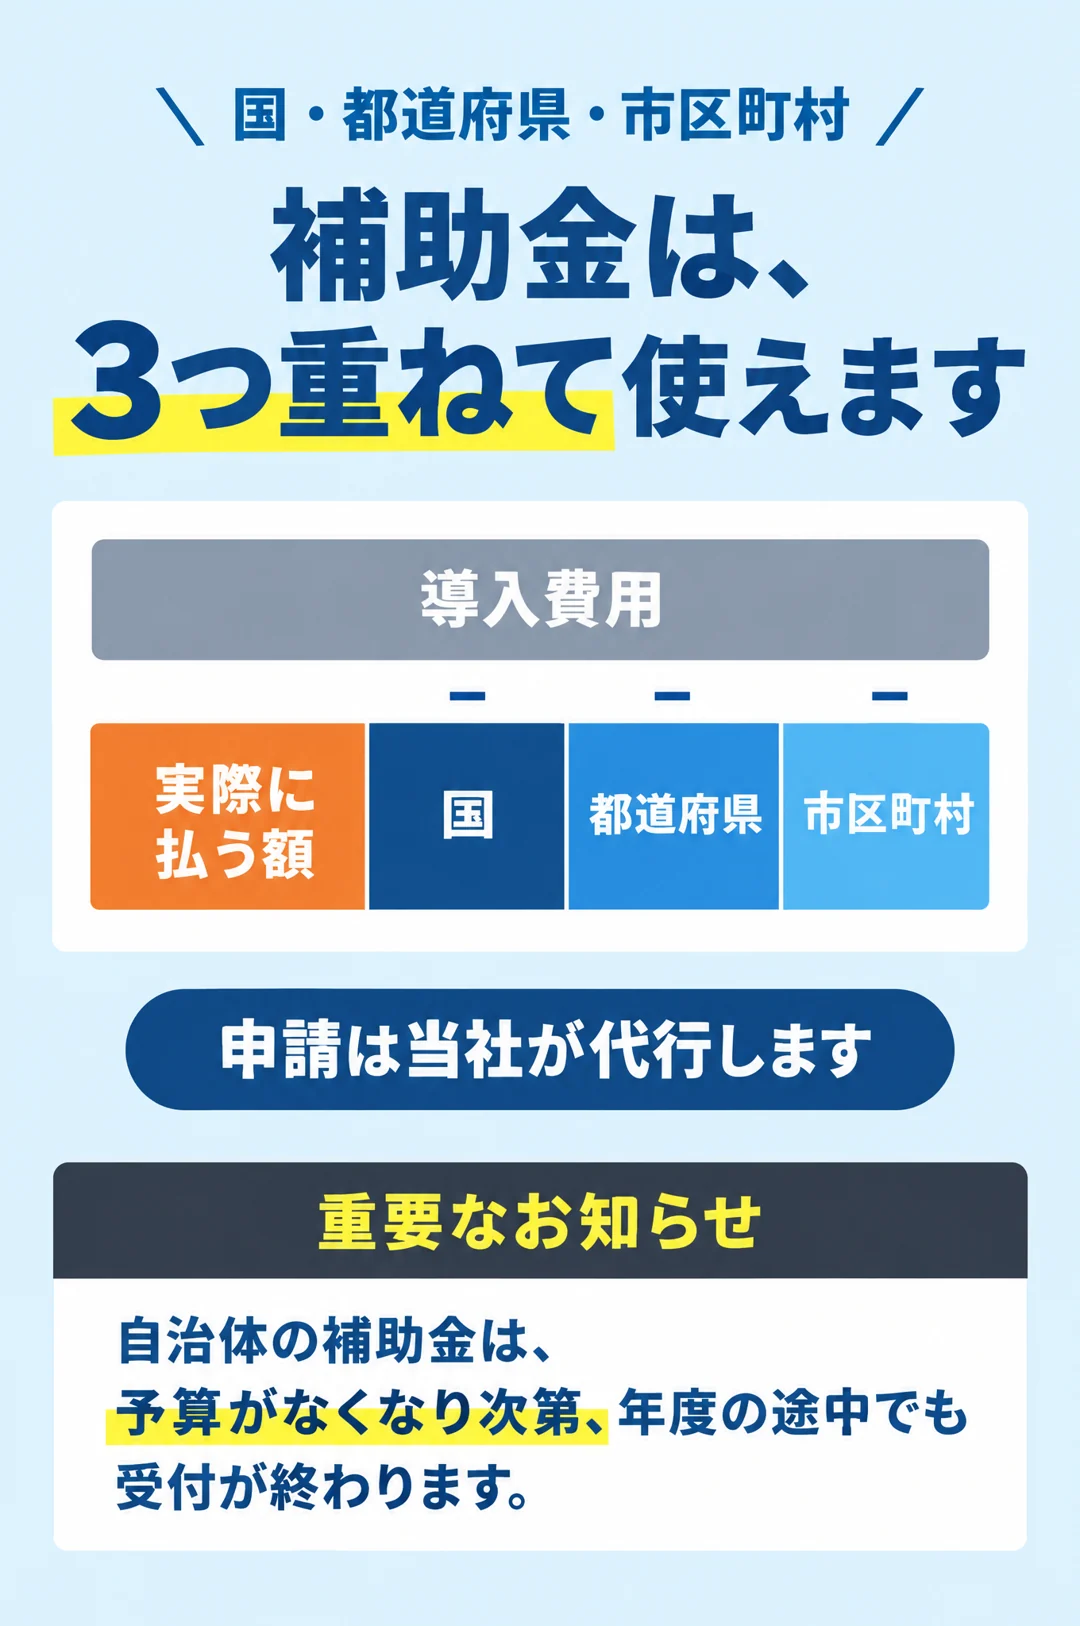
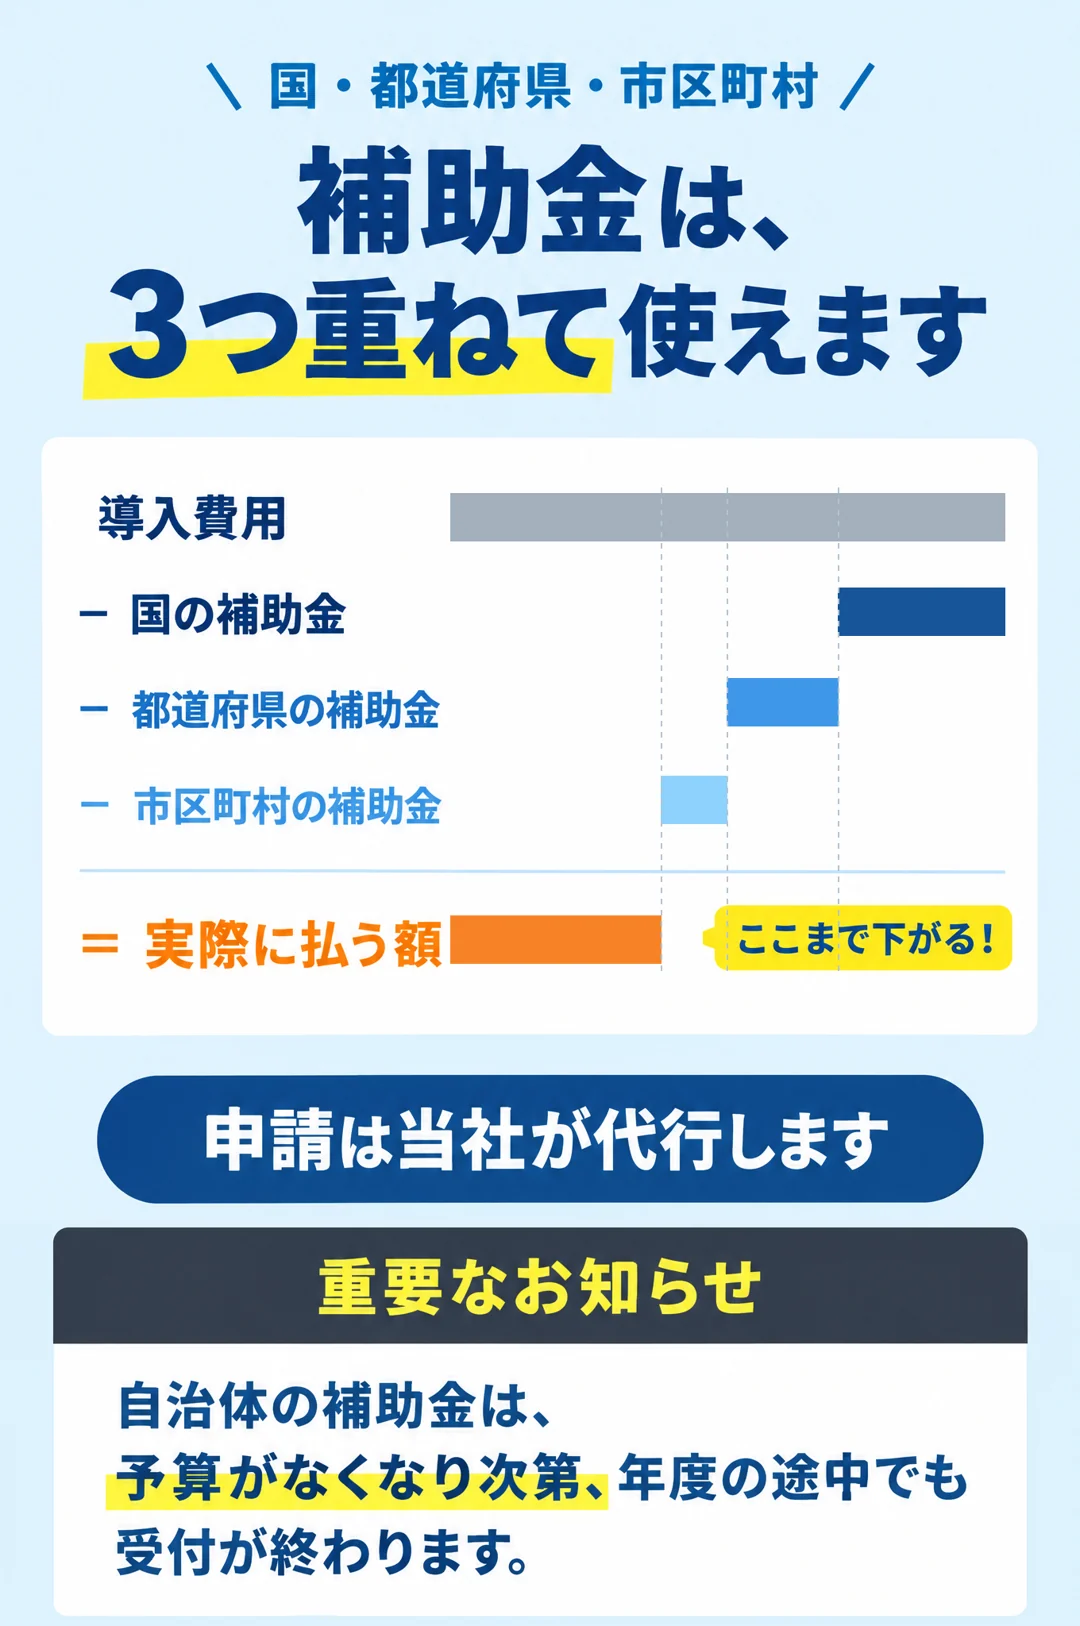
Add files via upload

diff --git a/index.html b/index.html
@@ -466,8 +466,6 @@ footer{background:var(--navy);color:#cfdcef;text-align:center;font-size:12.5px;p
 </div>
 
 <div id="ch4"></div>
-<img class="sx" src="I10.webp" alt="相場。太陽光パネル4kW約107万円、5kW約134万円、6kW約160万円、10kW約267万円。蓄電池5kWh約130〜180万円、7kWh約170〜230万円、10kWh約200〜300万円、12kWh以上約250〜350万円。蓄電池は1kWhあたり約25〜30万円が目安" loading="lazy" decoding="async">
-<div class="blk"><p class="note">※工事費込みの目安。太陽光は1kWあたり約26.7万円で計算。屋根の形・メーカー・工事内容で前後します。<span class="kari">【アームズの実際の価格帯に差し替え】</span></p></div>
 <img class="sx" src="I11.webp" alt="補助金は国・都道府県・市区町村の3つ重ねて使えます。申請は当社が代行します。重要なお知らせ：自治体の補助金は予算がなくなり次第、年度の途中でも受付が終わります" loading="lazy" decoding="async">
 <div class="blk"><p class="note">※国：蓄電池のDR補助金＋給湯省エネ 上限<span class="kari">74万円</span>／都道府県・市区町村 上限<span class="kari">◯万円</span>。図はイメージで、全額受け取れるとは限りません。契約・工事の前に申請が必要な制度もあります（当社は交付決定を待って着工します）</p></div>
 <img class="sx" src="I12.webp" alt="2つのご家庭で試算。ケース1 4人家族・オール電化 30,000円→5,000円（約83%削減）、元が取れるまで補助金なし約17年・補助金あり約4年。ケース2 2人暮らし・ガス併用から 18,000円→4,000円（約78%削減）、補助金なし約21年・補助金あり約3年" loading="lazy" decoding="async">
